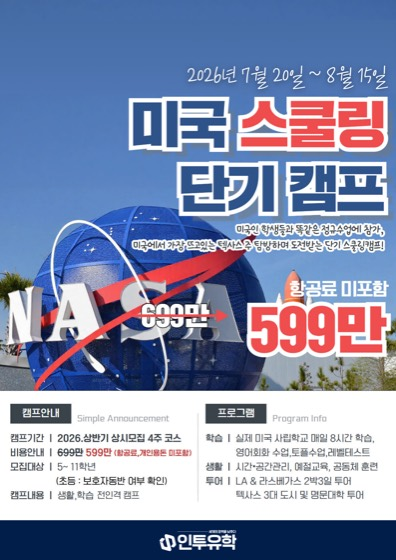
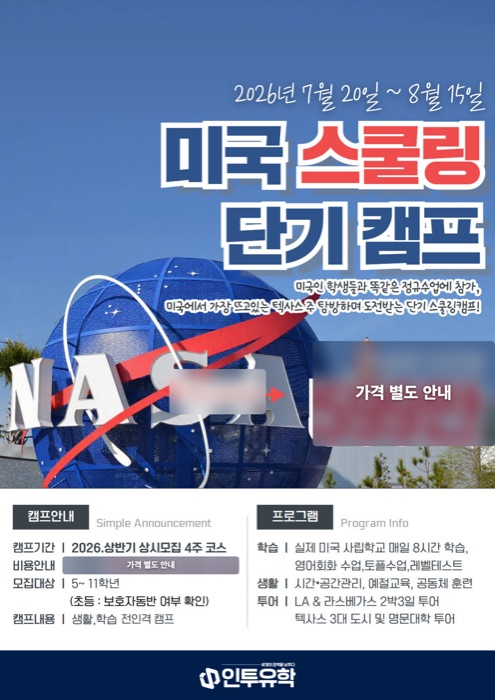
디자인 사례 — 가격 가리기 · 안에서 몇 장 보기 · 로고 잘림 수정
- 포스터의 가격 세 곳(정가·할인가·비용안내 줄)을 흐리게 가리고
  「가격 별도 안내」로 바꿨습니다. 캠프 일정·프로그램은 그대로 보입니다
- 브로셔를 누르면 앞 3장을 넘겨볼 수 있습니다 (← → 키·ESC 지원)
  PDF 내부 페이지는 macOS CoreGraphics 를 직접 불러 뽑았습니다
  (pdftoppm·ImageMagick 이 없는 환경이라 ctypes 로 CGPDFPage 렌더)
- 다운로드·우클릭·드래그 저장을 막았습니다
- 와이즈 리더 영통 본원 브로셔 제외
- 로고가 3:4 틀에 잘리던 것 → contain 으로 전체가 보이게

diff --git a/index.html b/index.html
@@ -433,6 +433,36 @@
   .dcard figcaption b{display:block;font-size:.88rem;font-weight:800;line-height:1.4}
   .dcard figcaption span{display:block;font-size:.78rem;color:var(--muted);margin-top:3px}
 
+  .dcard.more{cursor:zoom-in}
+  .dcard .dimg.fit{background:#fff;align-items:center;justify-content:center;padding:16px}
+  .dcard .dimg.fit img{width:100%;height:auto;object-fit:contain}
+  .dcard .dimg{position:relative}
+  .dmore{position:absolute;left:50%;bottom:10px;transform:translateX(-50%);white-space:nowrap;
+       font-size:.72rem;font-weight:800;color:#fff;background:rgba(12,20,40,.72);
+       border:1px solid rgba(255,255,255,.4);padding:5px 12px;border-radius:999px;
+       opacity:0;transition:opacity .18s;backdrop-filter:blur(2px)}
+  .dcard:hover .dmore{opacity:1}
+  /* 작업물은 저장·드래그가 안 되게 (완전한 차단은 아니지만 손이 안 가게) */
+  #designFolio img,.dvimg img{user-select:none;-webkit-user-select:none;-webkit-user-drag:none;
+       -webkit-touch-callout:none;pointer-events:none}
+
+  /* 작업물 미리보기 창 */
+  .modal.dv{padding:0}
+  .dvbox{width:100%;max-width:820px;max-height:94vh;margin:auto;display:flex;flex-direction:column;
+       background:var(--surface);border:1px solid var(--line);border-radius:16px;overflow:hidden}
+  .dvtop{display:flex;align-items:center;gap:10px;padding:14px 16px;border-bottom:1px solid var(--line)}
+  .dvtop b{font-size:.98rem;font-weight:800}
+  .dvnum{font-size:.8rem;color:var(--muted);font-weight:700}
+  .dvx{margin-left:auto;background:none;border:0;font-size:1.5rem;line-height:1;color:var(--muted);cursor:pointer;padding:0 4px}
+  .dvx:hover{color:var(--ink)}
+  .dvimg{flex:1;overflow:auto;background:var(--surface-2);display:flex;justify-content:center;padding:14px}
+  .dvimg img{max-width:100%;height:auto;border-radius:8px;box-shadow:0 10px 30px -14px rgba(0,0,0,.45)}
+  .dvbtm{display:flex;align-items:center;gap:10px;padding:12px 16px;border-top:1px solid var(--line)}
+  .dvbtm .btn{padding:9px 16px;font-size:.85rem}
+  .dvbtm .btn:disabled{opacity:.35;cursor:default}
+  .dvnote{flex:1;text-align:center;font-size:.78rem;color:var(--muted)}
+  @media(max-width:560px){ .dvnote{display:none} .dvbox{max-height:96vh} }
+
   /* 화면 순서대로 보여주기 (인투 오피스) */
   .shotflow{display:grid;gap:16px}
   .sf{margin:0;display:grid;grid-template-columns:minmax(0,1.35fr) minmax(0,1fr);gap:0;
@@ -990,7 +1020,7 @@
           <div class="fstep"><div class="n">STEP 07</div><h4>마감·전달</h4><p>파일 전달 또는 인쇄·배송.</p></div>
         </div>
         <div class="cnote">🖨 디자인만 제작하거나 인쇄·배송까지 선택할 수 있습니다. <b>비용은 항목·수량에 따라 견적으로 안내</b>합니다.</div>
-        <div class="panel-intro reveal" style="margin-top:56px"><div><div class="kicker">제작 사례</div><h2>우리가 만든 홍보물</h2><p>실제로 만들어 쓰고 있는 브로셔와 포스터입니다. <b>표지만 보여드립니다.</b></p></div></div>
+        <div class="panel-intro reveal" style="margin-top:56px"><div><div class="kicker">제작 사례</div><h2>우리가 만든 홍보물</h2><p>실제로 만들어 쓰고 있는 브로셔와 포스터입니다. <b>눌러보시면 앞부분 몇 장을 넘겨보실 수 있습니다.</b></p></div></div>
         <div class="dgrid reveal" id="designFolio"></div>
         <div class="cnote">🖨 <b>학원 홍보물도 같은 수준으로 만들어 드립니다.</b> 모집 포스터·브로셔·명함·현수막·배너 — 필요한 것을 말씀해 주시면 견적으로 안내드립니다.</div>
         <div class="area-cta"><a class="btn btn-primary" onclick="applyWith('doc')">디자인 문의하기 ↗</a></div>
@@ -1511,6 +1541,23 @@
 </div>
 
 <!-- 프리미엄 전환 모달 -->
+<!-- 작업물 미리보기 -->
+<div class="modal dv" id="dvModal" onclick="if(event.target===this)closeDesign()">
+  <div class="dvbox" oncontextmenu="return false">
+    <div class="dvtop">
+      <b id="dvTitle"></b>
+      <span class="dvnum" id="dvNum"></span>
+      <button class="dvx" onclick="closeDesign()" aria-label="닫기">×</button>
+    </div>
+    <div class="dvimg" id="dvImg"></div>
+    <div class="dvbtm">
+      <button class="btn btn-ghost" id="dvPrev" onclick="dvGo(-1)">← 이전</button>
+      <span class="dvnote">앞부분만 보여드립니다. 전체는 상담 때 안내드립니다.</span>
+      <button class="btn btn-ghost" id="dvNext" onclick="dvGo(1)">다음 →</button>
+    </div>
+  </div>
+</div>
+
 <!-- 내 계정 — 신청 내역 · 진행현황 · 로그아웃 -->
 <div class="modal" id="meModal" onclick="if(event.target===this)closeMe()">
   <div class="modal-card wide">
@@ -2131,25 +2178,63 @@
   }
   var BLOG_STATUS_URL='https://intoedu.github.io/hakwon-blog/status.html';
 
-  /* 디자인 제작 사례 — 새 작업물은 img/design/ 에 넣고 이 목록에 한 줄 추가 */
+  /* 디자인 제작 사례
+     p: 안에서 넘겨볼 수 있는 쪽수 (파일은 <s>-1.jpg … <s>-N.jpg)
+     p 가 없으면 한 장짜리 (<s>.jpg), fit:'contain' 은 로고처럼 잘리면 안 되는 것 */
   var DESIGN_WORKS=[
-    {s:'into',    n:'인투유학 브로셔',      d:'유학원 종합 소개 · 5개국'},
-    {s:'poster',  n:'미국 스쿨링 캠프 포스터', d:'모집 포스터 · 일정·비용 안내'},
-    {s:'blinn',   n:'블린컬리지 브로셔',    d:'미국 대학 과정 안내'},
-    {s:'schooling',n:'미국 스쿨링 단기 캠프 브로셔', d:'단기 캠프 프로그램 안내'},
-    {s:'career',  n:'미국 진로 설계 캠프 브로셔', d:'진로 설계 캠프 안내'},
-    {s:'sports',  n:'스포츠 & 투어 캠프 브로셔', d:'스포츠·투어 캠프 안내'},
-    {s:'wise',    n:'와이즈 리더 영통 본원 브로셔', d:'학원 맞춤 제작 · 캠프 안내'},
-    {s:'logo',    n:'인투렌탈 로고',        d:'로고 · 파비콘 제작'}
+    {s:'into',     n:'인투유학 브로셔',            d:'유학원 종합 소개 · 5개국', p:3},
+    {s:'poster',   n:'미국 스쿨링 캠프 포스터',    d:'모집 포스터 · 일정 안내'},
+    {s:'blinn',    n:'블린컬리지 브로셔',          d:'미국 대학 과정 안내', p:3},
+    {s:'schooling',n:'미국 스쿨링 단기 캠프 브로셔',d:'단기 캠프 프로그램 안내', p:3},
+    {s:'career',   n:'미국 진로 설계 캠프 브로셔', d:'진로 설계 캠프 안내', p:3},
+    {s:'sports',   n:'스포츠 & 투어 캠프 브로셔',  d:'스포츠·투어 캠프 안내', p:3},
+    {s:'logo',     n:'인투렌탈 로고',              d:'로고 · 파비콘 제작', fit:'contain'}
   ];
+  function dsrc(w,n){ return 'img/design/'+w.s+(w.p?('-'+n):'')+'.jpg'; }
   function renderDesign(){
     var box=document.getElementById('designFolio');if(!box)return;
-    box.innerHTML=DESIGN_WORKS.map(function(w){
-      return '<figure class="dcard"><div class="dimg">'
-        +'<img src="img/design/'+esc(w.s)+'.jpg" alt="'+esc(w.n)+'" onerror="this.remove()">'
+    box.innerHTML=DESIGN_WORKS.map(function(w,idx){
+      return '<figure class="dcard'+(w.p?' more':'')+'" data-design="'+idx+'"'
+        +(w.p?' title="눌러서 '+w.p+'장 보기"':'')+'>'
+        +'<div class="dimg'+(w.fit==='contain'?' fit':'')+'">'
+        +'<img src="'+esc(dsrc(w,1))+'" alt="'+esc(w.n)+'" draggable="false" onerror="this.remove()">'
+        +(w.p?'<span class="dmore">'+w.p+'장 보기</span>':'')
         +'</div><figcaption><b>'+esc(w.n)+'</b><span>'+esc(w.d)+'</span></figcaption></figure>';
     }).join('');
   }
+  /* 작업물 미리보기 — 두세 장만 넘겨봅니다 */
+  var DV_I=0, DV_P=1;
+  function openDesign(idx){
+    var w=DESIGN_WORKS[idx]; if(!w||!w.p)return;
+    DV_I=idx; DV_P=1;
+    document.getElementById('dvModal').classList.add('open');
+    drawDesign();
+  }
+  function closeDesign(){document.getElementById('dvModal').classList.remove('open');}
+  function dvGo(step){
+    var w=DESIGN_WORKS[DV_I];
+    DV_P=Math.min(w.p,Math.max(1,DV_P+step));
+    drawDesign();
+  }
+  function drawDesign(){
+    var w=DESIGN_WORKS[DV_I];
+    document.getElementById('dvTitle').textContent=w.n;
+    document.getElementById('dvNum').textContent=DV_P+' / '+w.p+'장';
+    document.getElementById('dvImg').innerHTML=
+      '<img src="'+esc(dsrc(w,DV_P))+'" alt="'+esc(w.n)+' '+DV_P+'쪽" draggable="false">';
+    document.getElementById('dvPrev').disabled=(DV_P<=1);
+    document.getElementById('dvNext').disabled=(DV_P>=w.p);
+  }
+  document.addEventListener('click',function(e){
+    var c=e.target.closest('[data-design]');
+    if(c)openDesign(Number(c.getAttribute('data-design')));
+  });
+  document.addEventListener('keydown',function(e){
+    if(!document.getElementById('dvModal').classList.contains('open'))return;
+    if(e.key==='Escape')closeDesign();
+    if(e.key==='ArrowLeft')dvGo(-1);
+    if(e.key==='ArrowRight')dvGo(1);
+  });
 
   /* ===== 제작 사례 =====
      새로 만든 사이트는 이 목록에 한 줄만 추가하면 화면에 바로 나옵니다.
